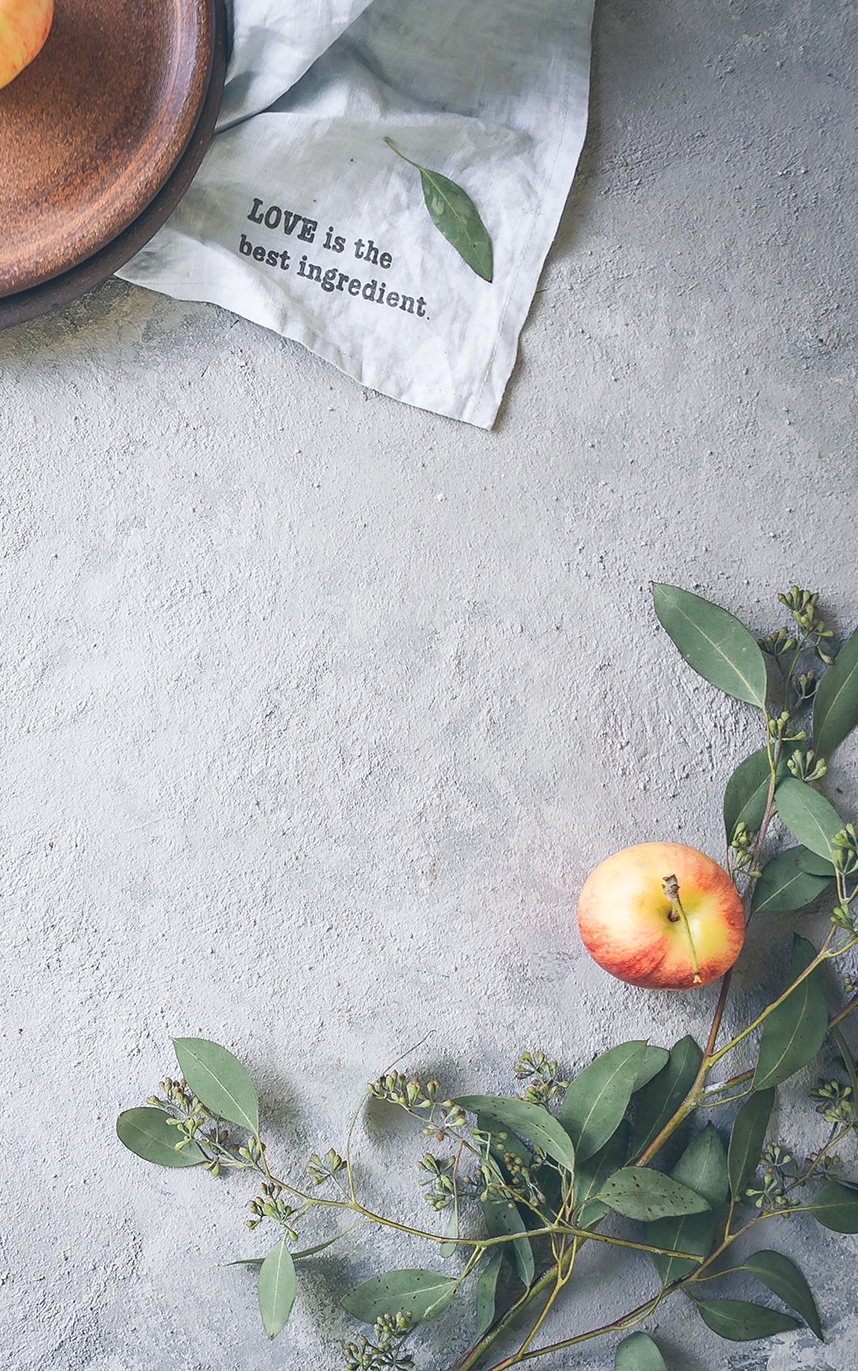
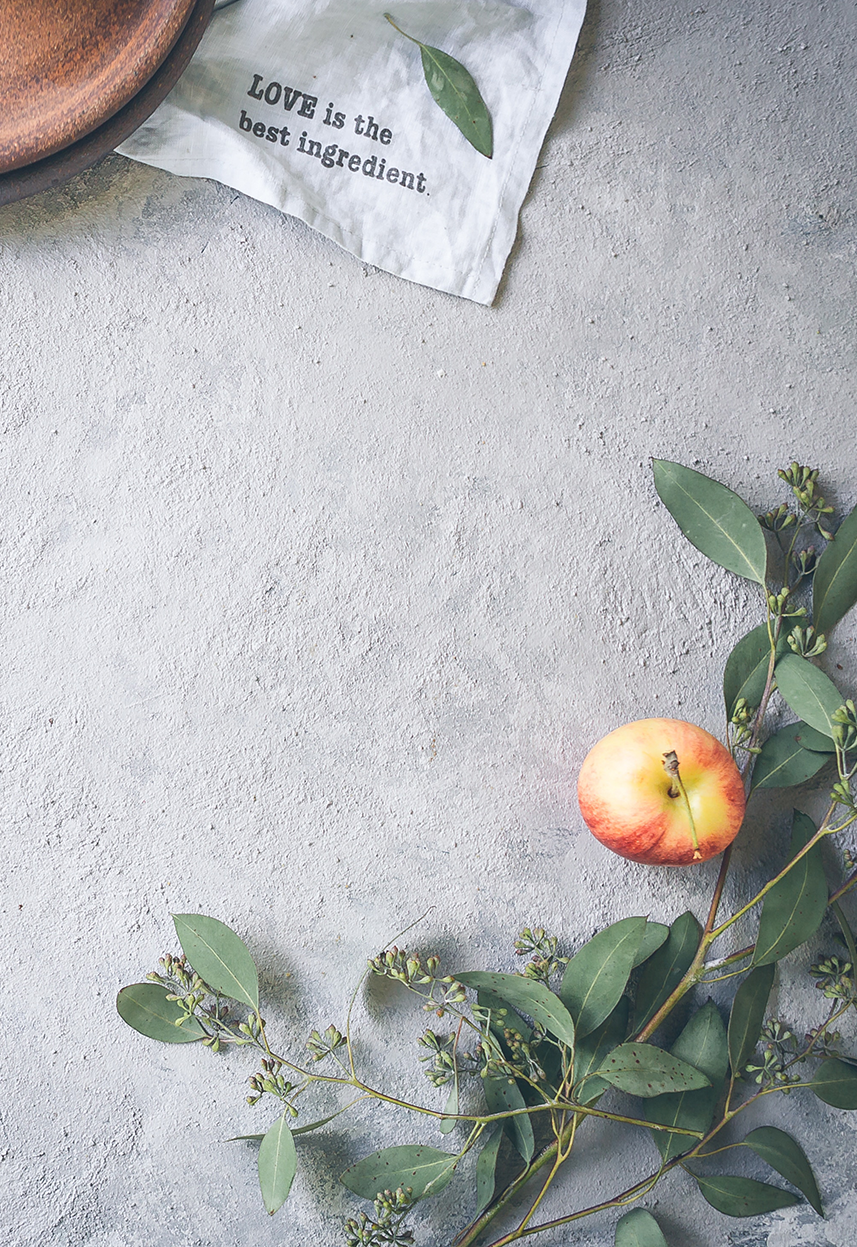
changed landingpage

diff --git a/client/src/components/landing.js b/client/src/components/landing.js
@@ -5,7 +5,7 @@ import minus from '../assets/images/minus.png';
 import { Link } from 'react-router-dom';
 import { connect } from 'react-redux';
 import { searchIngredient, addIngredeints, removeIngredients, clearUserIngredientInputs } from '../actions';
-import bg_image from '../assets/images/bg.jpg';
+import bg_image from '../assets/images/mobile-bg.png';
 //import bg_image from '../assets/images/dogbg.jpg';
 import slogan from '../assets/images/chicken_soup.gif';
 import commonIngredientsRef from '../assets/dummy_data/commonIngredientsRef';
@@ -34,7 +34,7 @@ class LandingPage extends Component {
 
         if (event.target) {
             item = this.state.currentIngredientInput.toLowerCase();
-            if(item.length === 0){
+            if (item.length === 0) {
                 return;
             }
         }
@@ -47,7 +47,7 @@ class LandingPage extends Component {
 
     }
 
-    addIngredientToListFromButton(item){
+    addIngredientToListFromButton(item) {
         this.props.addIngredient(item);
         this.setState({
             remainingEntries: --this.allowedEntries,
@@ -65,22 +65,22 @@ class LandingPage extends Component {
         console.log('aaa:', this.props.ingredients.length);
     }
 
-    clearUserInputs(){
+    clearUserInputs() {
         this.props.clearUserIngredientInputs();
     }
 
-    commonFoodCarousel(direction){
-        switch(direction){
+    commonFoodCarousel(direction) {
+        switch (direction) {
             case 'left':
                 this.foodIndex--;
-                if(this.foodIndex < 0){
+                if (this.foodIndex < 0) {
                     this.foodIndex++;
                     return;
                 }
                 break;
             case 'right':
                 this.foodIndex++;
-                if(this.foodIndex > 2){
+                if (this.foodIndex > 2) {
                     this.foodIndex--;
                     return;
                 }
@@ -95,13 +95,13 @@ class LandingPage extends Component {
     }
 
     goToResultsPage = () => {
-        if(this.props.ingredients.length !== 0){
+        if (this.props.ingredients.length !== 0) {
             this.props.history.push('/results');
         }
     }
 
     render() {
-        const colorArray = ['#ff8a80 red accent-1','#90caf9 blue lighten-3', '#e8f5e9 green lighten-3'];
+        const colorArray = ['#ff8a80 red accent-1', '#90caf9 blue lighten-3', '#e8f5e9 green lighten-3'];
         const ingredient = this.props.ingredients.map((item, index) => {
             return (<div key={index} className='ingredients'>
                 <div className='chip'>
@@ -118,61 +118,63 @@ class LandingPage extends Component {
             return (<button className={`btn btn-flat ${colorArray[this.foodIndex]}`} onClick={() => this.addIngredientToListFromButton(item, index)} key={index}>{item}</button>)
         });
 
-        let hideBubbles = ()=> {
+        let hideBubbles = () => {
             if (this.props.ingredients.length === 3) {
-                return {'display': 'none'};
+                return { 'display': 'none' };
             }
         };
 
         return (
             <div className='center bgImg' style={{ backgroundImage: `url(${bg_image})` }}>
-                <div className='text center'>
-                    <h4 className='margin-top-zero'>Enter your Ingredients</h4>
-                </div>
-                <div className="center">
-                    {ingredient}
-                </div>
-                {this.props.ingredients.length < 3 ?
-                    <div className='search_field'>
-                        <div className="">
-                            <input placeholder={`Insert ${this.state.remainingEntries} more Ingredients`} className='center' onChange={(event) => this.userInputHandler(event)} value={this.state.currentIngredientInput} />
-                        </div>
-                        <img id="ingAddMinImg" src={plus} onClick={this.addIngredientToListFromInput.bind(this)} className="center-block"/>
+                <div className="main">
+                    <div className='text center'>
+                        <h4 className='margin-top-zero'>Enter your Ingredients</h4>
                     </div>
-                    :
-                    <div className='center purple-text'><h5>Go for the food</h5></div>
-                }
-                {this.props.ingredients.length < 3 ?
-                    <div className="ingredientBtns">
-                        <div>
-                            <h5 className="commonFoodHeader">Common Choices</h5>
-                        </div>
-                        <div className="row s12 valign-wrapper">
-                            <div className="col s2">
-                                <i className="material-icons medium directionLeft" onClick={this.commonFoodCarousel.bind(this, 'left')}>chevron_left</i>
-                            </div>
-                            <div className="col s8 center">
-                                {commonIngredientsBtns}
-                            </div>
-                            <div className="col s2">
-                                <i className="material-icons medium directionRight" onClick={this.commonFoodCarousel.bind(this, 'right')}>chevron_right</i>
-                            </div>
-                        </div>
+                    <div className="center">
+                        {ingredient}
                     </div>
-                    : ''
-                }
-                <div>
-                    <div className="center" style={hideBubbles()}>
-                        <div className={this.foodIndex === 0 ? 'commonFoodBubbleActive' : 'commonFoodBubble'}>
+                    {this.props.ingredients.length < 3 ?
+                        <div className='search_field'>
+                            <div className="">
+                                <input placeholder={`Insert ${this.state.remainingEntries} more Ingredients`} className='center' onChange={(event) => this.userInputHandler(event)} value={this.state.currentIngredientInput} />
+                            </div>
+                            <img id="ingAddMinImg" src={plus} onClick={this.addIngredientToListFromInput.bind(this)} className="center-block" />
                         </div>
-                        <div className={this.foodIndex === 1 ? 'commonFoodBubbleActive' : 'commonFoodBubble'}>
+                        :
+                        <div className='center purple-text'><h5>Go for the food</h5></div>
+                    }
+                    {this.props.ingredients.length < 3 ?
+                        <div className="ingredientBtns">
+                            <div>
+                                <h5 className="commonFoodHeader">Common Choices</h5>
+                            </div>
+                            <div className="row s12 valign-wrapper">
+                                <div className="col s2">
+                                    <i className="material-icons medium directionLeft" onClick={this.commonFoodCarousel.bind(this, 'left')}>chevron_left</i>
+                                </div>
+                                <div className="col s8 center">
+                                    {commonIngredientsBtns}
+                                </div>
+                                <div className="col s2">
+                                    <i className="material-icons medium directionRight" onClick={this.commonFoodCarousel.bind(this, 'right')}>chevron_right</i>
+                                </div>
+                            </div>
                         </div>
-                        <div className={this.foodIndex === 2 ? 'commonFoodBubbleActive' : 'commonFoodBubble'}>
+                        : ''
+                    }
+                    <div>
+                        <div className="center" style={hideBubbles()}>
+                            <div className={this.foodIndex === 0 ? 'commonFoodBubbleActive' : 'commonFoodBubble'}>
+                            </div>
+                            <div className={this.foodIndex === 1 ? 'commonFoodBubbleActive' : 'commonFoodBubble'}>
+                            </div>
+                            <div className={this.foodIndex === 2 ? 'commonFoodBubbleActive' : 'commonFoodBubble'}>
+                            </div>
                         </div>
-                    </div>
-                    <div className="landPgSearchBtn btn btn-block center-block" onClick={this.goToResultsPage}>Search</div>
-                    <div className='center' style={this.props.ingredients.length !== 3 ? { 'display': 'none' } : {}}>
-                        <button type='button' className='btn btn-flat clearBtn waves-effect' onClick={() => this.clearUserInputs()}>Clear Inputs</button>
+                        <div className="landPgSearchBtn btn btn-block center-block" onClick={this.goToResultsPage}>Search</div>
+                        <div className='center' style={this.props.ingredients.length !== 3 ? { 'display': 'none' } : {}}>
+                            <button type='button' className='btn btn-flat clearBtn waves-effect' onClick={() => this.clearUserInputs()}>Clear Inputs</button>
+                        </div>
                     </div>
                 </div>
             </div>
@@ -180,7 +182,7 @@ class LandingPage extends Component {
     }
 }
 
-function mapStateToProps(state){
+function mapStateToProps(state) {
     return {
         ingredients: state.search.ingredients
     }

diff --git a/client/src/assets/css/landing.css b/client/src/assets/css/landing.css
@@ -3,6 +3,16 @@
     background-color: #00d3ff;
 }
 
+.margin-top-zero{
+    margin-top: 0;
+}
+.bgImg {
+    background-repeat: no-repeat;
+    background-size: cover;
+    width: 100%;
+    height: 100vh;
+}
+
 .search_field{
     width: 90%;
     margin: auto;

diff --git a/client/src/assets/css/header.css b/client/src/assets/css/header.css
@@ -4,7 +4,6 @@
     height: 10vh;
     justify-content: space-between;
     background-color: #98BF5C;
-    margin-bottom: 30px;
 }
 .header{
     position: absolute;

diff --git a/client/src/assets/css/hamburger.css b/client/src/assets/css/hamburger.css
@@ -7,8 +7,9 @@
     cursor: pointer;
     animation: bounce 1s;
 }
-.menuItem{
 
+.menu{
+    height: 29vh;
 }
 @keyframes bounce {
     from,
